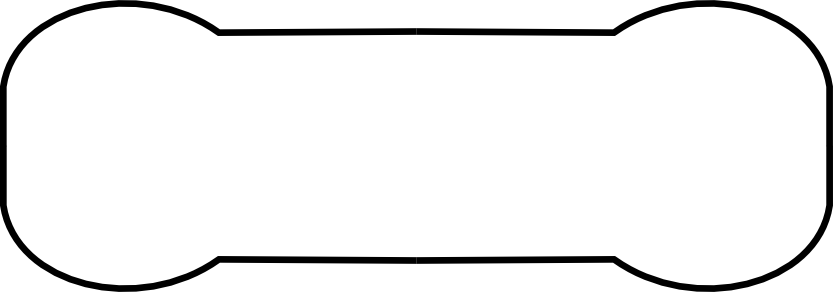
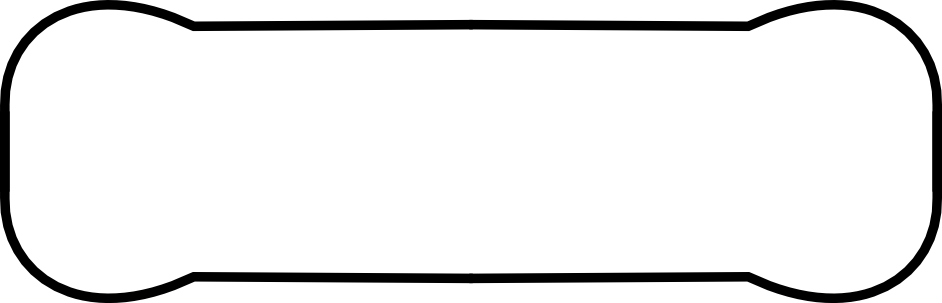
Se cambia la imagen de la resistencia por una que de mayor espacio para agregar la sexta banda

Changed region(s): [[0.0, 0.0, 1.0, 1.0]]

diff --git a/js/codigoColores.js b/js/codigoColores.js
@@ -1,4 +1,5 @@
-var $banda1 = ('.banda1'),
+var $valor  = ('#numero')
+	$banda1 = ('.banda1'),
 	$banda2 = ('.banda2'),
 	$banda3 = ('.banda3'),
 	$banda4 = ('.banda4'),
@@ -13,7 +14,7 @@ var $banda1 = ('.banda1'),
 	$btn3down = ('.banda3down'),
 	$btn4down = ('.banda4down'),
 	$btn5down = ('.banda5down'),
-	colorB1 = colorB2 = colorB3 = colorB4 = colorB5 = 'inicio';
+	colorB1 = colorB2 = colorB3 = colorB4 = colorB5 = colorB6 = 'inicio';
 
 function cambioColorMas(color,banda){
 	var cambio;
@@ -198,6 +199,7 @@ function cambioColorToleranciaMenos(color,banda){
 function btn1upPress(e){
 	e.preventDefault();
 	colorB1 = cambioColorMas(colorB1,'.banda1');
+	calculoValor(colorB1);
 }
 function btn2upPress(e){
 	e.preventDefault();
@@ -214,6 +216,10 @@ function btn4upPress(e){
 function btn5upPress(e){
 	e.preventDefault();
 	colorB5 = cambioColorToleranciaMas(colorB5,'.banda5');
+}
+function btn6upPress(e){
+	e.preventDefault();
+	colorB6 = cambioColorToleranciaMas(colorB6,'.banda6');
 }
 function btn1downPress(e){
 	e.preventDefault();
@@ -235,13 +241,27 @@ function btn5downPress(e){
 	e.preventDefault();
 	colorB5 = cambioColorToleranciaMenos(colorB5,'.banda5');
 }
+function btn6downPress(e){
+	e.preventDefault();
+	colorB6 = cambioColorToleranciaMenos(colorB6,'.banda6');
+}
+function calculoValor(color1,color2,color3){
+	if(color1 != 'inicio'){
+		$('#numero').val(color1);
+	}else{
+		$('#numero').val('');
+	}
+}	
+
 $('.banda1up').click( btn1upPress );
 $('.banda2up').click( btn2upPress );
 $('.banda3up').click( btn3upPress );
 $('.banda4up').click( btn4upPress );
 $('.banda5up').click( btn5upPress );
+$('.banda6up').click( btn6upPress );
 $('.banda1down').click( btn1downPress );
 $('.banda2down').click( btn2downPress );
 $('.banda3down').click( btn3downPress );
 $('.banda4down').click( btn4downPress );
 $('.banda5down').click( btn5downPress );
+$('.banda6down').click( btn6downPress );

diff --git a/css/estilos.css b/css/estilos.css
@@ -78,39 +78,45 @@ header
 .banda2,
 .banda3,
 .banda4,
-.banda5
+.banda5,
+.banda6
 {
 	background: transparent;
-	height: 5.3em;
-	margin-top: -5.95em;
+	height: 5.7em;
+	margin-top: -6.15em;
 	position: absolute;
 	width: 1em;
 }
 .banda1
 {
-	margin-left: 4.9em;
+	margin-left: 4em;
 }
 .banda2
 {
-	margin-left: 6.5em;
+	margin-left: 5.6em;
 }
 .banda3
 {
-	margin-left: 8.1em;
+	margin-left: 7.2em;
 }
 .banda4
 {
-	margin-left: 10.6em;
+	margin-left: 10.5em;
 }
 .banda5
 {
-	margin-left: 12.2em;
+	margin-left: 12.1em;
+}
+.banda6
+{
+	margin-left: 13.7em;
 }
 .banda1down,
 .banda2down,
 .banda3down,
 .banda4down,
-.banda5down
+.banda5down,
+.banda6down
 {
 	
 	position: absolute;
@@ -118,60 +124,71 @@ header
 .banda1down
 {
 	color: #222;
-	margin-left: 4.9em;	
+	margin-left: 4em;	
 }
 .banda2down
 {
 	color: #222;
-	margin-left: 6.5em;
+	margin-left: 5.6em;
 }
 .banda3down
 {
 	color: #222;
-	margin-left: 8.1em;
+	margin-left: 7.2em;
 }
 .banda4down
 {
 	color: #222;
-	margin-left: 10.6em;
+	margin-left: 10.5em;
 }
 .banda5down
 {
 	color: #222;
-	margin-left: 12.2em;
+	margin-left: 12.1em;
+}
+.banda6down
+{
+	color: #222;
+	margin-left: 13.7em;
 }
 .banda1up,
 .banda2up,
 .banda3up,
 .banda4up,
-.banda5up
+.banda5up,
+.banda6up
 {
 	position: absolute;
 }
 .banda1up
 {
 	color: #222;
-	margin-left: 4.9em;	
+	margin-left: 4em;	
 }
 .banda2up
 {
 	color: #222;
-	margin-left: 6.5em;
+	margin-left: 5.6em;
 }
 .banda3up
 {
 	color: #222;
-	margin-left: 8.1em;
+	margin-left: 7.2em;
 }
 .banda4up
 {
 	color: #222;
-	margin-left: 10.6em;
+	margin-left: 10.5em;
 }
 .banda5up
 {
 	color: #222;
-	margin-left: 12.2em;
+	margin-left: 12.1em;
+}
+.banda6up
+{
+	color: #222;
+	margin-left: 13.7em;
 }
 .color
 {

diff --git a/index.html b/index.html
@@ -38,6 +38,7 @@
 			<a href="" class="icon-arriba banda3up"></a>
 			<a href="" class="icon-arriba banda4up"></a>
 			<a href="" class="icon-arriba banda5up"></a>
+			<a href="" class="icon-arriba banda6up"></a>
 		</div>
 	</div>
 	<div class="row">
@@ -49,6 +50,7 @@
 				<div class="banda3"></div>
 				<div class="banda4"></div>
 				<div class="banda5"></div>
+				<div class="banda6"></div>
 			</figure>
 		</div>
 	</div>
@@ -59,6 +61,7 @@
 			<a href="" class="icon-abajo banda3down"></a>
 			<a href="" class="icon-abajo banda4down"></a>
 			<a href="" class="icon-abajo banda5down"></a>
+			<a href="" class="icon-abajo banda6down"></a>
 		</div>
 	</div>
 	<!--
